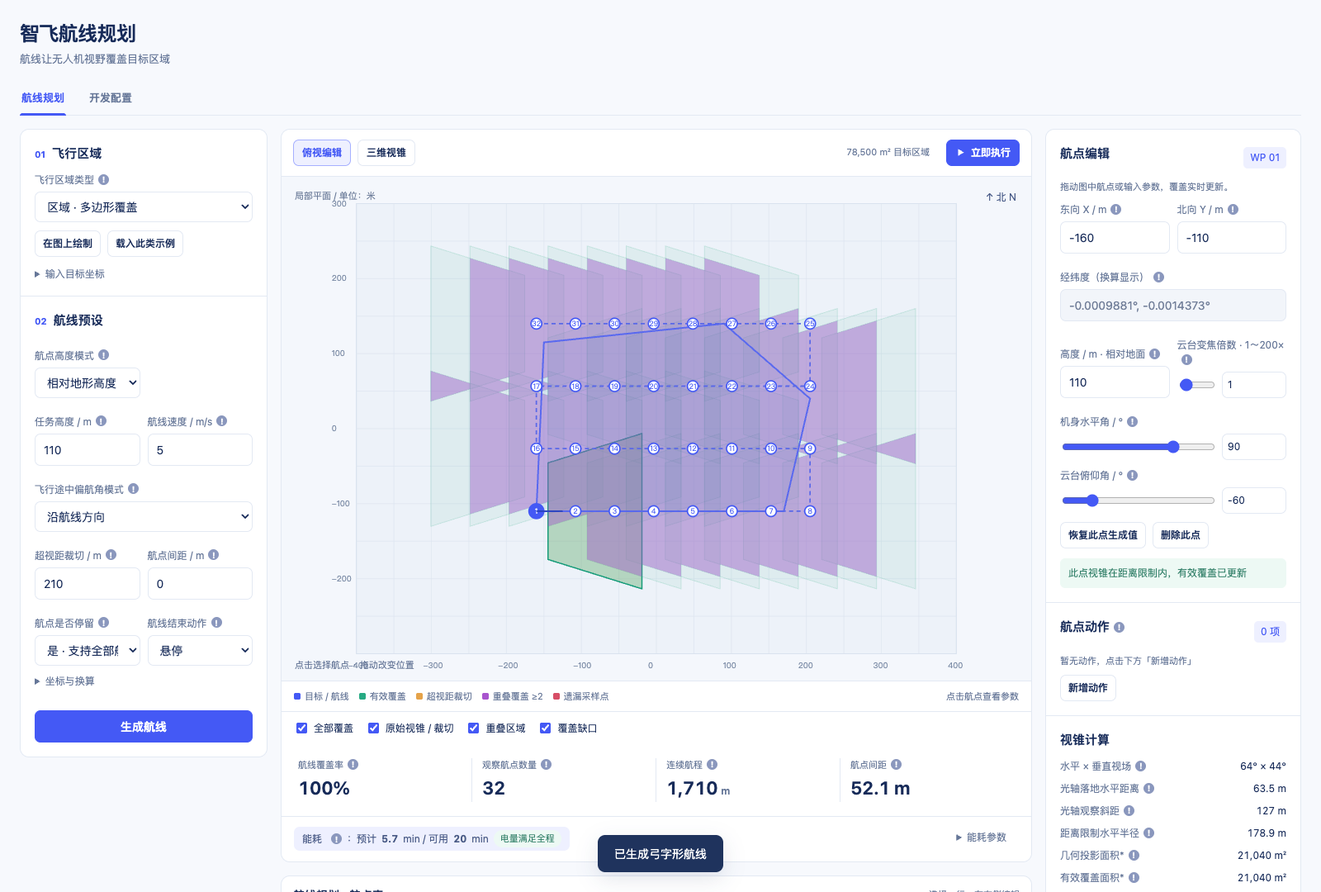
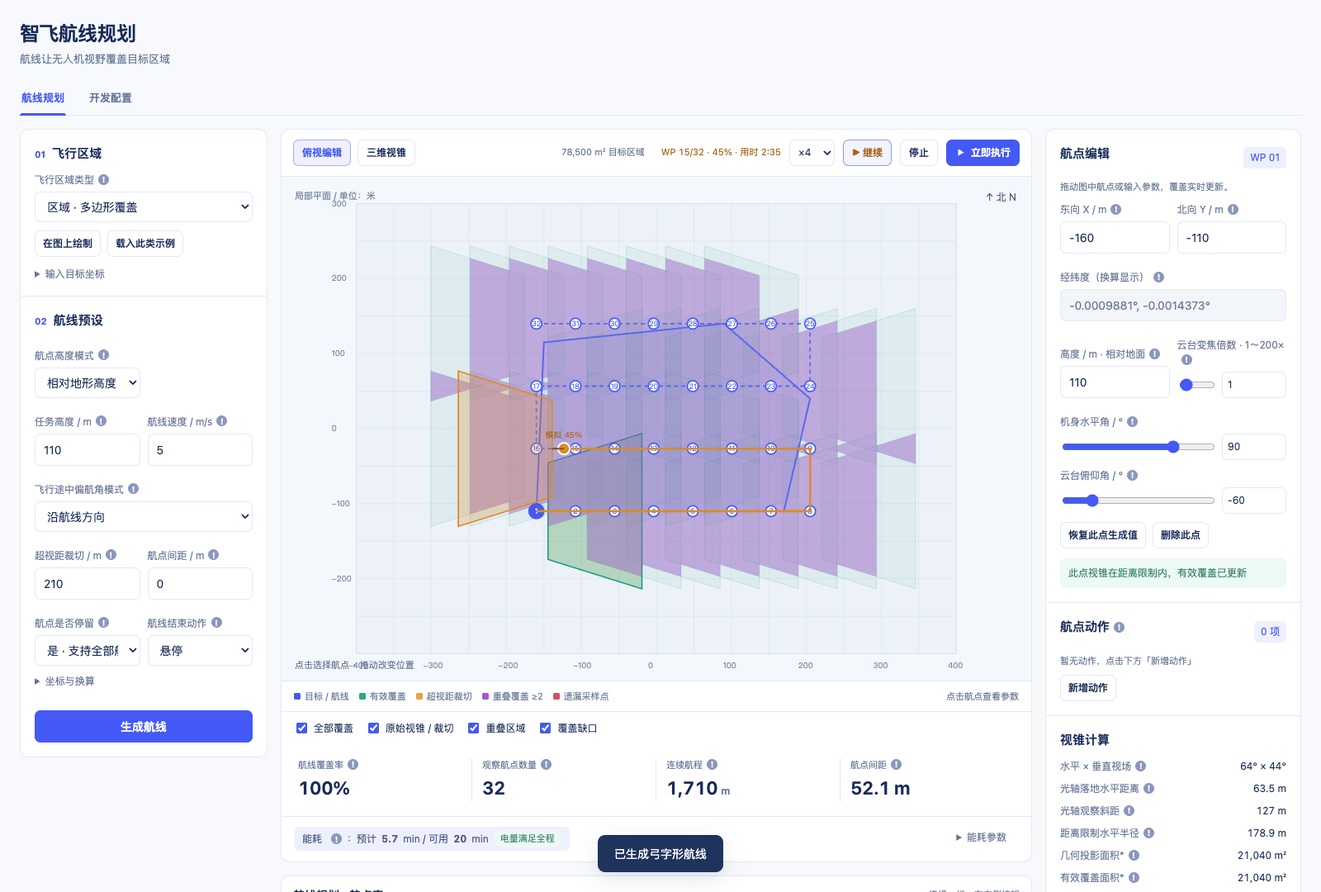
Add flight simulation: drone flies the route with live frustum, speed multipliers and auto-stop (v1.3.0)

diff --git a/page/index.html b/page/index.html
@@ -8,7 +8,12 @@
 .overlap-summary{display:flex;gap:14px;align-items:center;flex-wrap:wrap;padding:12px 16px;border-bottom:1px solid var(--line);font-size:12px;color:var(--muted)}.overlap-summary strong{color:#8a40ab;font-variant-numeric:tabular-nums}.spacing-conflict{color:var(--red)}[hidden]{display:none!important}.center,.planner,.inspector{min-width:0}.result-status.warning{background:#fff7e9;color:#925a16}.result-status.error{background:#fff0f3;color:#ae3450}
 .risk-body{padding:4px 0}.risk-row{display:flex;flex-wrap:wrap;gap:8px;align-items:center;padding:10px 15px;border-bottom:1px solid var(--line);font-size:12px;color:var(--muted)}.risk-row:last-child{border:0}.risk-tag{padding:2px 8px;border-radius:999px;font-size:11px;white-space:nowrap}.risk-warn{color:#925a16;background:#fff7e9}.risk-ok{color:#287961;background:#edf9f4}.risk-details{padding:6px 15px 10px}.risk-details .pair{padding-top:4px}.act-row{display:grid;grid-template-columns:minmax(0,1fr) 86px auto auto auto;gap:6px;align-items:center;margin-bottom:7px}.act-row[data-blocked="1"]{opacity:.55}.act-row select,.act-row input{padding:6px 8px;font-size:12px}.act-noparam{text-align:center;color:var(--muted)}
 .risk-bar{display:flex;flex-wrap:wrap;gap:8px;align-items:center;padding:10px 15px;font-size:12px;color:var(--muted)}.risk-item{display:inline-flex;align-items:center;gap:6px;padding:4px 10px;border-radius:7px;background:var(--soft);color:#4a5b86}.risk-item.warn{background:#fde8ed;border:1px solid #f4b8c6;color:#c0324d;font-weight:600}.risk-item b{font-variant-numeric:tabular-nums}.risk-bar .risk-details{margin-left:auto}.risk-bar .risk-details[open]{width:100%}.risk-bar .risk-details .pair{max-width:420px;padding-top:6px}
-.toolbar-actions{display:flex;align-items:center;gap:10px;margin-left:auto;flex-wrap:wrap}.exec-button{display:inline-flex;align-items:center;gap:6px;padding:9px 16px;font-size:13px;font-weight:600;white-space:nowrap}.exec-button svg{display:block;flex:none}@media(max-width:720px){.toolbar-actions{width:100%;justify-content:flex-start}}.fi{display:inline-flex;align-items:center;justify-content:center;width:13px;height:13px;margin-left:5px;border-radius:50%;background:#8a97bd;color:#fff;font-style:normal;font-size:10px;font-weight:700;line-height:1;cursor:help;vertical-align:1px;flex:none}.fi:hover,.fi:focus-visible{background:var(--blue);outline:none}#fieldTip{position:fixed;z-index:80;max-width:300px;padding:8px 11px;border-radius:8px;background:#1f335d;color:#fff;font-size:11.5px;line-height:1.65;box-shadow:0 8px 22px #172b5940;pointer-events:none;display:none}#fieldTip.show{display:block}
+.toolbar-actions{display:flex;align-items:center;gap:10px;margin-left:auto;flex-wrap:wrap}
+.sim-button{display:inline-flex;align-items:center;gap:6px;padding:8px 12px;border:1px solid var(--line);border-radius:7px;background:#fff;font-size:12px;font-weight:600;color:var(--ink);white-space:nowrap}
+.sim-button:hover{border-color:var(--orange);background:#fff8ef;color:#a8641a}
+.sim-button.on{border-color:var(--orange);background:#fff3e2;color:#a8641a}
+#simSpeed{width:auto;height:32px;padding:0 6px;border:1px solid var(--line);border-radius:7px;background:#fff;font-size:12px;color:var(--ink)}
+#simStatus{font-variant-numeric:tabular-nums;color:#a8641a}.exec-button{display:inline-flex;align-items:center;gap:6px;padding:9px 16px;font-size:13px;font-weight:600;white-space:nowrap}.exec-button svg{display:block;flex:none}@media(max-width:720px){.toolbar-actions{width:100%;justify-content:flex-start}}.fi{display:inline-flex;align-items:center;justify-content:center;width:13px;height:13px;margin-left:5px;border-radius:50%;background:#8a97bd;color:#fff;font-style:normal;font-size:10px;font-weight:700;line-height:1;cursor:help;vertical-align:1px;flex:none}.fi:hover,.fi:focus-visible{background:var(--blue);outline:none}#fieldTip{position:fixed;z-index:80;max-width:300px;padding:8px 11px;border-radius:8px;background:#1f335d;color:#fff;font-size:11.5px;line-height:1.65;box-shadow:0 8px 22px #172b5940;pointer-events:none;display:none}#fieldTip.show{display:block}
 /* module tabs — 参考 vision-model 的 module-tabs 结构 */
 .module-tabs{display:flex;gap:26px;border-bottom:1px solid var(--line);margin:0 0 16px}
 .module-tabs button{position:relative;display:inline-flex;align-items:center;padding:12px 2px 14px;border:0;border-radius:0;background:transparent;font-size:13px;font-weight:600;color:var(--muted);line-height:1}
@@ -198,6 +203,14 @@
 <div class="toolbar-actions">
 <span id="targetSummary" class="tiny"></span>
 <span id="planState" class="tiny" role="status">准备规划</span>
+<span id="simStatus" class="tiny" hidden></span>
+<select id="simSpeed" title="模拟倍速" aria-label="模拟倍速">
+<option value="1">×1</option>
+<option value="4" selected>×4</option>
+<option value="16">×16</option>
+</select>
+<button id="simulate" type="button" class="sim-button" title="沿航线模拟飞行，并显示飞行过程中的视锥">▶ 模拟飞行</button>
+<button id="simStop" type="button" class="sim-button" hidden title="结束模拟并清除飞行轨迹">停止</button>
 <button id="executeNow" type="button" class="primary exec-button" title="示意按钮，不会执行真实飞行"><svg width="13" height="13" viewBox="0 0 16 16" fill="none" aria-hidden="true"><path d="M4.2 2.8 13 8l-8.8 5.2V2.8Z" fill="currentColor"/></svg>立即执行</button>
 </div>
 </div>
@@ -441,7 +454,7 @@
 <script>
 'use strict';
 const $=id=>document.getElementById(id), R=Math.PI/180, B={xmin:-400,xmax:400,ymin:-300,ymax:300};
-const state={target:[[-160,-110],[170,-110],[205,40],[90,140],[-150,115]],points:[],selected:-1,view:'top',drawing:false,draft:[],samples:[],coverage:[],step:8,coarse:false,dirty:false,drag:null,config:null,geoms:[],source:[],busy:false,overlaps:[],hitCounts:[],spacingViolations:[],segYaw:[],resume:false};
+const state={target:[[-160,-110],[170,-110],[205,40],[90,140],[-150,115]],points:[],selected:-1,view:'top',drawing:false,draft:[],samples:[],coverage:[],step:8,coarse:false,dirty:false,drag:null,config:null,geoms:[],source:[],busy:false,overlaps:[],hitCounts:[],spacingViolations:[],segYaw:[],resume:false,sim:{running:false,d:0,last:0,mult:4}};
 const configIds=['height','cutDistance','speed','yawMode','bodyYaw','gimbalPitch','zoom','spacing','heightMode','groundElevation','stay','endAction','homeLat','homeLon','lineWidth','slopeAngle','slopeAspect','solidTop','enduranceMin','safetyPct'];
 function config(){const num=id=>{const v=$(id).value.trim();return v===''?null:+v};return {spacing:+$('spacing').value||0,height:+$('height').value,distance:+$('cutDistance').value,yawMode:$('yawMode').value,bodyYaw:num('bodyYaw'),pitch:num('gimbalPitch')??0,zoom:num('zoom')??1,speed:+$('speed').value||5,heightMode:$('heightMode').value,groundElevation:+$('groundElevation').value||0,stay:$('stay').value==='yes',endAction:$('endAction').value,home:{lat:+$('homeLat').value||0,lon:+$('homeLon').value||0},lineWidth:+$('lineWidth').value,slopeAngle:+$('slopeAngle').value||0,slopeAspect:+$('slopeAspect').value||0,solidTop:+$('solidTop').value||30,type:$('targetType').value};}
 function validConfig(){for(const id of configIds){const el=$(id);if(el.type!=='number'||el.value==='')continue;if(!el.checkValidity()){$('validation').textContent='请检查参数：'+((el.parentElement.querySelector('span').textContent||el.id).replace(/!$/,''));return false;}}$('validation').textContent='';return true;}
@@ -493,7 +506,7 @@ function convexIntersection(a,b){
  for(let i=0;i<b.length&&result.length;i++){const p=b[i],q=b[(i+1)%b.length];result=clip(result,r=>orientation*((q[0]-p[0])*(r[1]-p[1])-(q[1]-p[1])*(r[0]-p[0])));}
  return area(result)>1e-7?result:[];
 }
-function recalc(){const c=state.config;if(!c)return;computeSegYaw();state.geoms=state.points.map(w=>geometry(w,c));state.hitCounts=state.samples.map(p=>state.points.reduce((n,w,i)=>n+(directionOK(w,c,state.segYaw[i])&&insideFov(p,w,c,state.geoms[i])?1:0),0));state.coverage=state.hitCounts.map(n=>n>0);state.overlaps=[];state.spacingViolations=[];
+function recalc(){const c=state.config;if(!c)return;simReset();computeSegYaw();state.geoms=state.points.map(w=>geometry(w,c));state.hitCounts=state.samples.map(p=>state.points.reduce((n,w,i)=>n+(directionOK(w,c,state.segYaw[i])&&insideFov(p,w,c,state.geoms[i])?1:0),0));state.coverage=state.hitCounts.map(n=>n>0);state.overlaps=[];state.spacingViolations=[];
 for(let i=0;i<state.points.length;i++)for(let j=i+1;j<state.points.length;j++){
  const a=state.points[i],b=state.points[j],distance=Math.hypot(a.x-b.x,a.y-b.y);if(distance+1e-7<c.spacing)state.spacingViolations.push({i,j,distance});
  // Overlap is geometric: direction-conflicting waypoints still expose their footprint intersections.
@@ -537,6 +550,45 @@ function renderRisk(){const c=state.config;if(!c)return;const minH=state.points.
  $('energyState').className='risk-tag '+(r.over?'risk-warn':'risk-ok');
  $('energyItem').classList.toggle('warn',r.over);$('resumeRow').hidden=!r.over;}
 function renderActions(){const w=state.points[state.selected],stay=state.config?state.config.stay:true;$('actionCount').textContent=w?(w.actions||[]).length+' 项':'0';if(!w){$('actionList').innerHTML='<p class="hint">生成航线并选择航点后配置动作</p>';return;}const acts=w.actions||[];$('actionList').innerHTML=acts.length?acts.map((a,i)=>{const def=ACTION_DEFS[a.type]||{group:'其他',label:a.type};const blocked=!stay&&!NO_STAY_OK.has(a.type);const groups={};Object.entries(ACTION_DEFS).forEach(([k,d])=>{if(stay||NO_STAY_OK.has(k)||k===a.type)(groups[d.group]=groups[d.group]||[]).push([k,d]);});const sel=`<select data-i="${i}" class="act-type" aria-label="动作类型">${Object.entries(groups).map(([g,items])=>`<optgroup label="${g}">${items.map(([k,d])=>`<option value="${k}"${k===a.type?' selected':''}>${d.label}</option>`).join('')}</optgroup>`).join('')}</select>`;const prm=def.param?`<input data-i="${i}" class="act-param" type="${def.param.type}" value="${a.params&&a.params[def.param.key]!=null?a.params[def.param.key]:def.param.def}"${def.param.type==='number'?` min="${def.param.min}" max="${def.param.max}" step="${def.param.step}"`:''} title="${def.param.label}" aria-label="${def.param.label}">`:'<span class="tiny act-noparam">—</span>';return `<div class="act-row"${blocked?' data-blocked="1"':''}>${sel}${prm}<button class="small-button" data-act="up" data-i="${i}"${stay?'':' disabled'} title="上移">↑</button><button class="small-button" data-act="down" data-i="${i}"${stay?'':' disabled'} title="下移">↓</button><button class="small-button" data-act="del" data-i="${i}" title="删除">删</button>${blocked?'<span class="tiny">停留=否不支持</span>':''}</div>`}).join(''):'<p class="hint">暂无动作，点击下方「新增动作」</p>';}
+// ---- 模拟飞行：沿航线匀速推进机体，实时绘制飞行过程中的视锥 ----
+function simRoute(){const pts=state.points,segs=[];let acc=0;for(let i=0;i<pts.length-1;i++){const a=pts[i],b=pts[i+1],len=Math.hypot(b.x-a.x,b.y-a.y);if(len<=1e-9)continue;segs.push({i,a,b,len,start:acc});acc+=len;}return {segs,total:acc};}
+function lerpAngle(a,b,t){const d=((b-a+540)%360)-180;return a+d*t;}
+function simPose(d){const pts=state.points,c=state.config;if(!pts.length)return null;const {segs,total}=simRoute();
+ if(!segs.length){const p=pts[0];return {x:p.x,y:p.y,yaw:p.yaw||0,pitch:p.pitch,pitch2:p.pitch,zoom:p.zoom||1,height:p.height??c.height,leg:0,t:0,progress:1,d:0,total:0};}
+ d=Math.max(0,Math.min(total,d));let seg=segs[segs.length-1];for(const g of segs){if(d<=g.start+g.len+1e-9){seg=g;break;}}
+ const t=seg.len?Math.max(0,Math.min(1,(d-seg.start)/seg.len)):0,a=seg.a,b=seg.b;
+ const mix=(p,q)=>{const A=Number.isFinite(p)?p:(Number.isFinite(q)?q:0),B=Number.isFinite(q)?q:A;return A+(B-A)*t;};
+ return {x:a.x+(b.x-a.x)*t,y:a.y+(b.y-a.y)*t,yaw:lerpAngle(a.yaw||0,b.yaw||0,t),pitch:mix(a.pitch,b.pitch),zoom:mix(a.zoom,1),height:mix(a.height,b.height),leg:seg.i,t,progress:total?d/total:0,d,total};}
+function fmtDur(sec){const m=Math.floor(sec/60),ss=Math.round(sec%60);return m+':'+String(ss).padStart(2,'0');}
+function updateSimUI(){const sim=state.sim,pts=state.points,{total}=simRoute();if(!sim)return;const on=sim.running||sim.d>0;
+ $('simStatus').hidden=!on;$('simStop').hidden=!on;const btn=$('simulate');
+ btn.classList.toggle('on',sim.running);btn.textContent=sim.running?'⏸ 暂停':(total>0&&sim.d>=total?'▶ 重新模拟':(sim.d>0?'▶ 继续':'▶ 模拟飞行'));
+ if(!on){$('simStatus').textContent='';return;}
+ const pose=simPose(sim.d),sp=state.config?Math.max(.1,state.config.speed):5;
+ $('simStatus').textContent='WP '+Math.min(pts.length,pose.leg+1)+'/'+pts.length+' · '+Math.round(pose.progress*100)+'% · 用时 '+fmtDur(sim.d/sp);}
+function simTick(ts){const sim=state.sim;if(!sim||!sim.running)return;if(!sim.last)sim.last=ts;const dt=Math.min(.12,(ts-sim.last)/1000);sim.last=ts;
+ const {total}=simRoute(),speed=state.config?Math.max(.1,state.config.speed):5;sim.d+=dt*speed*sim.mult;
+ if(sim.d>=total){sim.d=total;sim.running=false;sim.last=0;toast('模拟飞行结束');}
+ updateSimUI();draw();
+ if(sim.running)requestAnimationFrame(simTick);}
+function simReset(){const sim=state.sim;if(!sim)return;sim.running=false;sim.last=0;sim.d=0;updateSimUI();}
+function drawSim(ctx,c,gnd){const sim=state.sim;if(!sim||(!sim.d&&!sim.running))return;const pose=simPose(sim.d);if(!pose)return;
+ const three=state.view==='3d',az=p=>three?gnd(p.x,p.y)+(p.height??c.height):gnd(p.x,p.y);
+ const pts=state.points,trail=[];
+ for(let i=0;i<=pose.leg&&i<pts.length;i++){const p=pts[i];trail.push([p.x,p.y,az(p)]);}
+ trail.push([pose.x,pose.y,az(pose)]);
+ if(trail.length>1){path(ctx,trail,false);ctx.setLineDash([]);ctx.lineWidth=2.6;ctx.strokeStyle='#dc8b27';ctx.stroke();}
+ const g=geometry(pose,c),body=[pose.x,pose.y,three?gnd(pose.x,pose.y)+pose.height:gnd(pose.x,pose.y)];
+ if(g.effective.length){polygon(ctx,g.effective,'#dc8b2730','#dc8b27',1.6);}
+ if($('showRaw').checked&&g.raw.length){polygon(ctx,g.raw,'#dc8b2718','#dc8b2799',1);}
+ if(three){if(g.effective.length){const n=g.effective.length,step=Math.max(1,Math.ceil(n/16));for(let i=0;i<n;i+=step){const j=(i+step)%n;path(ctx,[body,[...g.effective[i]],[...g.effective[j]]],true);ctx.strokeStyle='#dc8b2740';ctx.lineWidth=.8;ctx.stroke();}}
+  ctx.setLineDash([4,4]);path(ctx,[[pose.x,pose.y,gnd(pose.x,pose.y)],body],false);ctx.strokeStyle='#dc8b27aa';ctx.stroke();ctx.setLineDash([]);}
+ const xy=projection(...body);
+ ctx.beginPath();ctx.arc(xy[0],xy[1],7,0,Math.PI*2);ctx.fillStyle='#dc8b27';ctx.fill();ctx.strokeStyle='#fff';ctx.lineWidth=2;ctx.stroke();
+ const tip=projection(pose.x+Math.sin(pose.yaw*R)*16,pose.y+Math.cos(pose.yaw*R)*16,three?body[2]:body[2]);
+ ctx.beginPath();ctx.moveTo(xy[0],xy[1]);ctx.lineTo(tip[0],tip[1]);ctx.strokeStyle='#8a4f10';ctx.lineWidth=2;ctx.stroke();
+ ctx.font='10px -apple-system,sans-serif';ctx.fillStyle='#a8641a';ctx.textAlign='center';ctx.fillText('模拟 '+Math.round(pose.progress*100)+'%',xy[0],xy[1]-13);ctx.textAlign='left';}
+
 let screen={scale:1,cx:0,cy:0},hitPoints=[];
 function canvasSetup(canvas){const rect=canvas.getBoundingClientRect(),dpr=Math.min(window.devicePixelRatio||1,2);canvas.width=Math.round(rect.width*dpr);canvas.height=Math.round(rect.height*dpr);const ctx=canvas.getContext('2d');ctx.scale(dpr,dpr);return {ctx,w:rect.width,h:rect.height};}
 function projection(x,y,z=0){if(state.view==='top')return [screen.cx+x*screen.scale,screen.cy-y*screen.scale];return [screen.cx+(x*.82-y*.55)*screen.scale,screen.cy+(x*.32+y*.48-z*.95)*screen.scale];}
@@ -552,7 +604,7 @@ if($('showOverlap').checked&&state.overlaps.length){
 if(c.type==='area'||c.type==='slope'){polygon(ctx,state.target.map(q=>[q[0],q[1],gnd(q[0],q[1])]),'#4459f50c','#5969ef',2);}else if(c.type==='solid'){const {cx,cy,rad,top}=cylinderOf(c),N=48,base=[];for(let k=0;k<N;k++){const a=k*2*Math.PI/N,x=cx+Math.cos(a)*rad,y=cy+Math.sin(a)*rad;base.push([x,y,gnd(x,y)]);}const tops=base.map(p=>[p[0],p[1],p[2]+top]);polygon(ctx,base,'#4459f508','#5969ef',1.6);polygon(ctx,tops,'#4459f50c','#5969ef',2);if(state.view==='3d')for(let k=0;k<N;k+=2){const j=(k+1)%N;polygon(ctx,[base[k],base[j],tops[j],tops[k]],'#4459f506','#5969ef30',.7);}}else if(c.type==='line'){path(ctx,state.target,false);ctx.lineWidth=c.lineWidth*screen.scale;ctx.strokeStyle='#6976ef25';ctx.lineCap='round';ctx.lineJoin='round';ctx.stroke();ctx.lineWidth=2;ctx.strokeStyle='#5969ef';ctx.setLineDash([5,4]);ctx.stroke();ctx.setLineDash([]);}else{for(const [i,p] of state.target.entries()){const xy=projection(...p);ctx.beginPath();ctx.arc(...xy,6,0,Math.PI*2);ctx.fillStyle='#4459f5';ctx.fill();ctx.fillText('T'+(i+1),xy[0]+9,xy[1]+4);}}
 if($('showMiss').checked){ctx.fillStyle='#d74e6690';state.samples.forEach((p,i)=>{if(!state.coverage[i]){let xy=projection(...p);ctx.fillRect(xy[0]-1.3,xy[1]-1.3,2.6,2.6);}});}
 if(state.points.length){ctx.setLineDash([5,4]);path(ctx,state.points.map(p=>[p.x,p.y,state.view==='3d'?gnd(p.x,p.y)+(p.height??c.height):0]),false);ctx.strokeStyle='#5968e8';ctx.lineWidth=1.8;ctx.stroke();ctx.setLineDash([]);}hitPoints=[];state.points.forEach((p,i)=>{const xy=projection(p.x,p.y,state.view==='3d'?gnd(p.x,p.y)+(p.height??c.height):0);hitPoints.push(xy);ctx.beginPath();ctx.arc(...xy,i===state.selected?9:6.5,0,Math.PI*2);ctx.fillStyle=i===state.selected?'#4459f5':'#fff';ctx.fill();ctx.strokeStyle='#4459f5';ctx.lineWidth=1.7;ctx.stroke();ctx.fillStyle=i===state.selected?'white':'#4459f5';ctx.font='9px -apple-system,sans-serif';ctx.textAlign='center';ctx.fillText(i+1,xy[0],xy[1]+3);ctx.textAlign='left';if(i===state.selected){let d=[Math.sin(p.yaw*R),Math.cos(p.yaw*R)];const tip=projection(p.x+d[0]*35,p.y+d[1]*35,state.view==='3d'?gnd(p.x,p.y)+(p.height??c.height):0);ctx.beginPath();ctx.moveTo(...xy);ctx.lineTo(...tip);ctx.strokeStyle='#263fb8';ctx.stroke();}});
-if(state.drawing){polygon(ctx,state.draft,'#4459f515','#4459f5',2);state.draft.forEach(p=>{ctx.beginPath();ctx.arc(...projection(...p),4,0,Math.PI*2);ctx.fillStyle='#4459f5';ctx.fill();});}ctx.font='11px -apple-system,sans-serif';ctx.fillStyle='#667798';ctx.fillText(state.view==='top'?'点击选择航点 · 拖动改变位置':'三维为等轴投影 · 切回俯视可拖动',16,h-15);$('viewLabel').textContent=state.view==='top'?'局部平面 / 单位：米':'三维视锥 / 地面 z = 0';$('compass').textContent=state.view==='top'?'↑ 北 N':'等轴视图';}
+if(state.drawing){polygon(ctx,state.draft,'#4459f515','#4459f5',2);state.draft.forEach(p=>{ctx.beginPath();ctx.arc(...projection(...p),4,0,Math.PI*2);ctx.fillStyle='#4459f5';ctx.fill();});}drawSim(ctx,c,gnd);ctx.font='11px -apple-system,sans-serif';ctx.fillStyle='#667798';ctx.fillText(state.view==='top'?'点击选择航点 · 拖动改变位置':'三维为等轴投影 · 切回俯视可拖动',16,h-15);$('viewLabel').textContent=state.view==='top'?'局部平面 / 单位：米':'三维视锥 / 地面 z = 0';$('compass').textContent=state.view==='top'?'↑ 北 N':'等轴视图';}
 function drawProfile(){const {ctx,w,h}=canvasSetup($('profile')),wp=state.points[state.selected],c=state.config;if(!wp||w<1||h<1)return;const wh=Number.isFinite(wp.height)?wp.height:c.height;let scale=Math.max(.05,Math.min((w-35)/Math.max(c.distance*1.1,160),(h-38)/Math.max(wh*1.2,130)));let ox=22,oy=h-22,dy=oy-wh*scale;ctx.strokeStyle='#cad5e5';ctx.beginPath();ctx.moveTo(10,oy);ctx.lineTo(w-10,oy);ctx.stroke();ctx.strokeStyle='#d79736';ctx.setLineDash([4,3]);ctx.beginPath();ctx.arc(ox,dy,c.distance*scale,0,Math.PI/2);ctx.stroke();ctx.setLineDash([]);const len=Math.min(c.distance*1.15,wh/Math.max(.001,Math.sin(-wp.pitch*R)));ctx.beginPath();ctx.moveTo(ox,dy);ctx.lineTo(ox+Math.cos(wp.pitch*R)*len*scale,dy-Math.sin(wp.pitch*R)*len*scale);ctx.strokeStyle='#4459f5';ctx.lineWidth=2;ctx.stroke();ctx.beginPath();ctx.arc(ox,dy,4,0,Math.PI*2);ctx.fillStyle='#4459f5';ctx.fill();ctx.font='10px -apple-system,sans-serif';ctx.fillStyle='#667798';ctx.fillText(wp.pitch+'°',ox+8,dy+13);ctx.fillText('地面',w-36,oy+14);}
 function pointFromEvent(e){const r=$('scene').getBoundingClientRect();return [(e.clientX-r.left-screen.cx)/screen.scale,-(e.clientY-r.top-screen.cy)/screen.scale];}
 function chooseHit(e){const r=$('scene').getBoundingClientRect(),p=[e.clientX-r.left,e.clientY-r.top];let index=-1,best=16;hitPoints.forEach((q,i)=>{const d=dist(p,q);if(d<best){best=d;index=i;}});return index;}
@@ -581,6 +633,11 @@ $('actionList').addEventListener('click',e=>{const b=e.target.closest('button[da
 $('addAction').onclick=()=>{const w=state.points[state.selected];if(!w)return toast('请先选择航点');w.actions=w.actions||[];if(w.actions.length>=20)return toast('单航点最多 20 个动作');w.actions.push({id:'a'+Date.now().toString(36),type:'photo',params:{}});recalc();};
 $('resume').onchange=()=>{state.resume=$('resume').checked;renderRisk();};
 $('executeNow').onclick=()=>toast('「立即执行」为界面示意，不会执行真实飞行任务');
+$('simulate').onclick=()=>{const sim=state.sim;if(!state.points.length)return toast('请先在「航线预设」里生成航线');const {total}=simRoute();if(total<=1)return toast('航线太短，无法模拟飞行');
+ if(sim.running){sim.running=false;sim.last=0;updateSimUI();draw();return;}
+ if(sim.d>=total)sim.d=0;sim.mult=+($('simSpeed').value||4);sim.running=true;sim.last=0;updateSimUI();requestAnimationFrame(simTick);};
+$('simSpeed').onchange=()=>{state.sim.mult=+$('simSpeed').value||4;};
+$('simStop').onclick=()=>{simReset();draw();};
 const fieldTip=document.createElement('div');fieldTip.id='fieldTip';document.body.appendChild(fieldTip);
 function showTip(t){const r=t.getBoundingClientRect();fieldTip.textContent=t.dataset.tip;fieldTip.classList.add('show');const w=fieldTip.offsetWidth,h=fieldTip.offsetHeight;let x=r.left+r.width/2-w/2;x=Math.max(8,Math.min(x,window.innerWidth-w-8));let y=r.top-h-8;if(y<8)y=r.bottom+8;fieldTip.style.left=x+'px';fieldTip.style.top=y+'px';}
 function hideTip(){fieldTip.classList.remove('show');}
@@ -625,6 +682,7 @@ function goPage(page){
   });
   try{const u=new URL(location.href);u.searchParams.set('tab',page);history.replaceState(null,'',u.pathname+u.search+u.hash);}catch(error){}
   if(page==='planner')requestAnimationFrame(()=>{draw();drawProfile();});
+  else if(state.sim&&state.sim.running){state.sim.running=false;state.sim.last=0;updateSimUI();}
 }
 document.querySelectorAll('.module-tabs [role="tab"]').forEach(tab=>{
   tab.addEventListener('click',()=>goPage(tab.dataset.page));
@@ -710,7 +768,7 @@ function copyText(text){
 })();
 
 // Expose deterministic geometry for local validation; no network or device control.
-window.PlannerDemo={state,config,basis,fov,geometry,geometrySlope,insideFov,area,convexIntersection,spacingAllowed,validateTarget,samples,generate,setTarget,recalc,directionOK,effYawTarget,segYawOf,toLatLon,slopeAB,groundZfn,riskInfo,ACTION_DEFS,NO_STAY_OK,cylinderOf,spiralWaypoints,lineWaypoints,greedyWaypoints,scanWaypoints,fillGaps};
+window.PlannerDemo={state,config,basis,fov,geometry,geometrySlope,insideFov,area,convexIntersection,spacingAllowed,validateTarget,samples,generate,setTarget,recalc,directionOK,effYawTarget,segYawOf,toLatLon,slopeAB,groundZfn,riskInfo,ACTION_DEFS,NO_STAY_OK,cylinderOf,spiralWaypoints,lineWaypoints,greedyWaypoints,scanWaypoints,fillGaps,simRoute,simPose,simReset};
 syncControls();setTarget(state.target);generate();
 </script>
 </body></html>

diff --git a/README.md b/README.md
@@ -9,7 +9,7 @@
 
 | Tab | 地址 | 用途 |
 | --- | --- | --- |
-| 航线规划 | `/dsh-drone-planner/`、`/dsh-drone-planner/?tab=planner` | 业务界面：飞行区域、航线预设、航线规划、航点编辑 |
+| 航线规划 | `/dsh-drone-planner/`、`/dsh-drone-planner/?tab=planner` | 业务界面：飞行区域、航线预设、航线规划、航点编辑、模拟飞行 |
 | 开发配置 | `/dsh-drone-planner/?tab=dev` | 配置代码、安装/引用/API 代码复制 |
 
 旧的 `/dsh-drone-planner/dev.html` 路由仍然保留，只做跳转到 `?tab=dev`。
@@ -112,6 +112,22 @@ cd dsh-drone-planner && git pull
 - **Client 半区**（`client.js`）注册 `sidebar.panellist` 图标与同 id 的 `main` 面板；面板先对
   `/dsh-drone-planner/` 做一次 `HEAD` 自检，正常则铺满同源 iframe，路由缺失则显示带「重试」的错误卡片。
 
+## 模拟飞行
+
+画布工具条右侧「▶ 模拟飞行」：机体沿当前航线匀速飞行，一边飞一边画它此刻的视锥。
+
+- **怎么跑**：按预设的「全局航线速度」推进（不是逐帧跳点），位置、机身水平角、云台俯仰、变焦、高度都在相邻航点之间插值；
+  右上角状态显示 `WP 15/32 · 45% · 用时 2:35`。
+- **看什么**：橙色机身标记（带机头指向）、已飞过的实心轨迹、当前视锥的地面投影（半透明填充 + 实线边界）；
+  叠加「原始视锥 / 裁切」时同时显示未裁切的橙色轮廓；切到**三维视锥**可见机体、垂线与锥体棱线。
+- **倍速**：`×1 / ×4 / ×16`，只改变观看速度，不改变「用时」（用时＝已飞距离 ÷ 航线速度）。
+- **控制**：按钮在「模拟飞行 / ⏸ 暂停 / ▶ 继续 / ▶ 重新模拟」间切换；「停止」清除轨迹并隐藏状态。
+  暂停时轨迹与视锥保留，可慢慢查看。
+
+自动行为：飞到终点自动停止并提示；重新生成航线、编辑航点或改目标会重置模拟；切到「开发配置」tab 自动暂停。
+
+模拟只按航线顺序匀速运动，不含加/减速、转弯半径、爬升率与停留动作的耗时——它是几何过程的演示，不是飞控仿真。
+
 ## 开发配置（第二个 tab）
 
 地址：`http://127.0.0.1:<harness-port>/dsh-drone-planner/?tab=dev`（旧 `dev.html` 会跳到这里）
@@ -183,7 +199,7 @@ cd dsh-drone-planner && git pull
 | `page/dev.html` | 旧入口：跳转到 `?tab=dev`（开发配置已并入正式页面） |
 | `page/api.js` | 嵌入加载器 `OttoPlexDronePlanner.mount/apply` |
 | `check-redesign.cjs` | 函数级验收（几何、斜面、圆柱螺旋、弓字形扫描等） |
-| `check-defaults.cjs` | 浏览器验收（默认值、航线形态、响应式对齐） |
+| `check-defaults.cjs` | 浏览器验收（默认值、航线形态、模拟飞行、响应式对齐） |
 | `check-dev-mode.cjs` | 浏览器验收（单页两 tab、开发配置、立即执行归属、代码接入） |
 | `locale/zh.json`、`locale/en.json` | 插件管理里显示的标题与说明 |
 | `icon.svg` | 侧边栏与详情页图标 |
